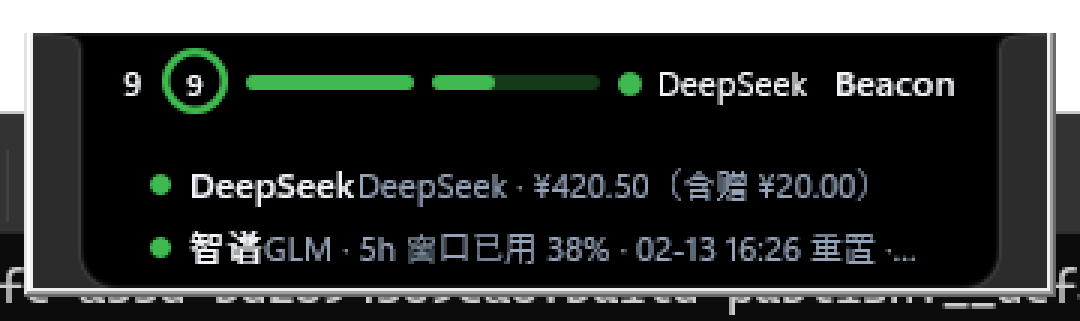
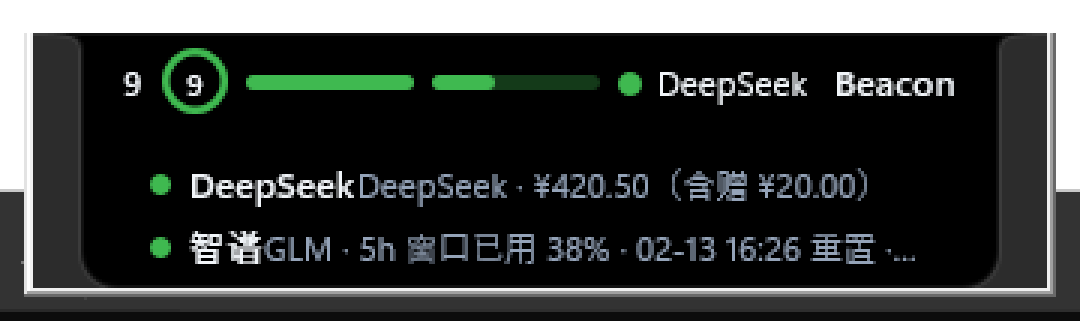
docs: recapture island evidence after width hug change

Changed region(s): [[0.0, 0.7165, 1.0, 0.9969], [0.9778, 0.3427, 1.0, 0.6231], [0.0, 0.3427, 0.0306, 0.6231]]

diff --git a/docs/acceptance-evidence/island-di-parity.md b/docs/acceptance-evidence/island-di-parity.md
@@ -19,8 +19,9 @@
 - 真机（imac 200% DPI，2026-11-08 a413ec0，`docs/acceptance-evidence/island-head-closeout/`）：
   `01-island-collapsed.png` / `02-island-collapsed-10x.png`（收起）、`06-island-expanded.png`（悬停展开）、
   `08-island-critical.png`（critical 徽标）、`09-capsule-classic.png`（经典胶囊回归对照）。
-- nightly visual-evidence（本轮新增场景 AG/AH）：**run 43671206004 全绿**（main 202cc26），
-  七张截图已入 `docs/acceptance-evidence/island-data/`（场景↔文件映射见该目录 README）；
+- nightly visual-evidence（本轮新增场景 AG/AH）：**run 43671206004 全绿**（main 202cc26，场景首绿）→
+  **run 43679247117 全绿**（main d555834 = D-4 宽度改版后的重取证，八张截图已刷新入
+  `docs/acceptance-evidence/island-data/`，场景↔文件映射见该目录 README）；
   首轮 run 43662875796 的 AG 三态 + AH1 展开帧同型（其 AH1b 假红根因=探针首展不设 _hovered、
   移出不构成 PointerExited——已在 202cc26 修 AH1a 先真悬停进岛）。
 
@@ -28,7 +29,7 @@
 
 | 对比图 | 内容 | 量化读数 |
 |---|---|---|
-| `cmp-01-collapsed.png` | DI 紧凑（di-03 crop）vs beacon 收起（01 crop），高归一 120px | DI w/h=3.98 全圆角（r=h/2）；beacon w/h=7.44 顶角 0、底角 r=12/h=0.375 |
+| `cmp-01-collapsed.png` | DI 紧凑（di-03 crop）vs beacon 收起（**D-4 后 AG-island-single**，高归一 150px 重排 2026-11-15） | DI w/h=3.98 全圆角（r=h/2）；beacon 单面收起 **w/h≈4.7**（150 DIP/32，D-4 贴内容后；改版前 238 DIP 恒宽=7.44），顶角 0、底角 r=12 |
 | `cmp-02-expanded.png` | DI 展开（di-02 crop）vs beacon 展开（06 crop） | DI 展开仍全圆角；beacon 展开同刘海轮廓（顶角 0） |
 | `cmp-03-ref-minimal.png` | DI 最小态（di-04 autocontrast 增强） | AOD 下岛融入壁纸（亮度差 <4/255） |
 | `cmp-04-ref-multi.png` | DI 多活动（di-01 中机特写） | 双活动并列：左活动区+右实时图标区 |
@@ -60,18 +61,23 @@
   （AG-island-stack.png，run 43662875796 证据）。DI 紧凑态只承载 1-2 活动是 iOS 单活动横幅语义，
   beacon 收起行是监控摘要面（一屏看全），改 2 面会把 GLM/DeepSeek 挤进溢出池且连锁打红
   AG1/AH3 场景断言（AH3 下钻点击目标就是 chip 面）。随 D-4 的宽度收缩，面少时岛变窄，
-  长宽比向 DI 靠拢的效果由 D-4 承担。
+  长宽比向 DI 靠拢的效果由 D-4 承担——**已由 run 43679247117 复核证实**（single w/h 4.7）。
 
-### D-4 内容内边距：DI 左右≈0.5×h vs beacon 1.66×h 🔧 已修（2026-11-15，待重截图复核）
+### D-4 内容内边距：DI 左右≈0.5×h vs beacon 1.66×h 🔧 已修并复核（2026-11-15，run 43679247117）
 
-- 证据：beacon 01 实测 glyph 左 inset 636px = 1.66×surface-h；DI di-02 实测左 inset 3px（相机帧特写）
-  / di-03 胶囊左右留白≈胶囊半高。
+- 证据（修前）：beacon 01 实测 glyph 左 inset 636px = 1.66×surface-h；DI di-02 实测左 inset 3px
+  （相机帧特写）/ di-03 胶囊左右留白≈胶囊半高。
 - 根因：`MeasureSizePx` 岛分支宽恒 `max(DefaultWidthDips 238, rowDips)`——固定 238 下限在
   面少时两侧各留 ~90 DIP 对称空白，读作「字缩在中间」。
-- 修复（CapsuleWindow.Positioning.cs 岛分支）：收起态宽=收起行+2×Inset 30 贴内容（DI compact
-  语义，下限 MinWidthDips 72 不变）；展开态/离线横幅保 238 下限（预览行 MaxWidth=岛宽-60，
-  窄收起行会把预览裁到不可读——DI expanded 同样横向变宽）。`DefaultWidthDips` 注释同步更新
-  （Core.Tests 锁的是常量值 238/30/72/178，全不动）。
+- 修复（CapsuleWindow.Positioning.cs 岛分支，d555834）：收起态宽=收起行+2×Inset 30 贴内容
+  （DI compact 语义，下限 MinWidthDips 72 不变）；展开态/离线横幅保 238 下限（预览行
+  MaxWidth=岛宽-60，窄收起行会把预览裁到不可读——DI expanded 同样横向变宽）。
+  `DefaultWidthDips` 注释同步更新（Core.Tests 锁的是常量值 238/30/72/178，全不动）。
+- 复核（run 43679247117 全绿，CI Windows 编译门过；同场景同 zoom 同脚本 crop 宽对比）：
+  single 面 1024→**648**（×0.63，w/h 7.44→**≈4.7**，向 DI 3.98 靠拢）、carousel 1024→**784**
+  （×0.77，宽随轮转面内容浮动）、stack 1424→1424 与 expanded 1080→1080 持平（4 面内容
+  ≈238 触旧下限、展开态保 238 下限——与设计一致，不受 D-4 影响）。cmp-01 已按新截图重排。
+  用户可感知面（面少时岛变窄、内容不再「缩中间」）**待用户装机亲验**。
 
 ### D-5 字体层级：DI 图标≈文字同高、无多级字号 vs beacon 11px 单级 ✅ 已对齐（复核通过）
 
@@ -106,7 +112,8 @@
 
 ## 验收口径
 
-- 修 D-3/D-4/D-6 后重跑 nightly visual-evidence（AG/AH 场景）重出对比图，差异清单逐项更新读数；
+- D-4 已修并随 run 43679247117 重取证（AG/AH 全绿，cmp-01 按新截图重排，读数已更新）；
+  D-3/D-6 维持设计取舍不改；
 - 视觉类条目一律「待用户装机亲验」：装机确认①收起面宽随面数收缩、②内容不再「缩中间」、
   ③主/次面分区可辨，D-3/D-4/D-6 才由用户闭项；
 - 本轮 agent 不勾任何岛类 todo 条目。

diff --git a/docs/acceptance-evidence/island-data/README.md b/docs/acceptance-evidence/island-data/README.md
@@ -1,20 +1,21 @@
 # island-data · 岛视觉证据（nightly visual-evidence AG/AH 场景）
 
-来源：nightly run 43671206004（2026-11-15，main 202cc26，全绿）。
+来源：nightly run 43679247117（2026-11-15，main d555834 = D-4 收起宽贴内容，全绿）。
+首轮 run 43662875796 建 AG/AH 场景（AH1b 假红）→ run 43671206004 修后首绿（main 202cc26）→
+本 run 为 D-4 宽度改版后的重取证（收起岛宽=收起行+2×Inset 30：single 1024→648 crop、
+carousel 1024→784，stack/expanded 持平——4 面内容与展开下限 238 不受 D-4 影响）。
 场景代码：`.github/workflows/scripts/visual-evidence.ps1` AG/AH 段。
 
 | 文件 | 场景 | 断言锚 | 内容 |
 |---|---|---|---|
-| `AG-island-stack.png` | AG1 stack 档 | UIA `island-face-{island.progressring,island.progressbar,bigmodel.usage:GLM,deepseek.balance:ds}` 全在场 | 收起行 4 面（环 9/条/条/chip DeepSeek + 品牌标） |
-| `AG-island-single.png` | AG2 single 档 | 环在场、条/GLM/DS face 不在场 | 序首环面常驻 |
-| `AG-island-carousel.png` | AG3 carousel 档 | 12 轮采样 ≥2 个不同 face id | 单面轮转在走 |
-| `AH-island-expanded.png` | AH1 展开态 | 窗高 ≥1.6×收起基线 + 预览行含 GLM 文本 | 探针首展（BEACON_DEBUG_ISLAND_PREVIEW=1） |
+| `AG-island-stack.png` | AG1 stack 档 | UIA `island-face-{island.progressring,island.progressbar,bigmodel.usage:GLM,deepseek.balance:ds}` 全在场 | 收起行 4 面（环 9/条/条/chip DeepSeek + 品牌标），宽 238 不变 |
+| `AG-island-single.png` | AG2 single 档 | 环在场、条/GLM/DS face 不在场 | 序首环面常驻，宽贴内容（环+品牌标） |
+| `AG-island-carousel.png` | AG3 carousel 档 | 12 轮采样 ≥2 个不同 face id | 单面轮转在走，宽随轮转面内容浮动 |
+| `AH-island-expanded.png` | AH1 展开态 | 窗高 ≥1.6×收起基线 + 预览行含 GLM 文本 | 探针首展（BEACON_DEBUG_ISLAND_PREVIEW=1），宽保 238 下限 |
 | `AH-island-collapsed-after-hover.png` | AH1a→AH1b | 指针真进（PointerEntered）→移出→窗高回基线 | 悬停往返的收起帧 |
 | `AH-island-reexpanded.png` | AH1c | 指针移回→窗高再长出 | 悬停往返的再展帧 |
 | `AH-island-placeholder.png` | AH2 占位面 | `island-face-bigmodel.usage:ghost` 在场（enabled:false 无状态） | 空心灯点+淡字占位（不造数据） |
-
-AH3（下钻链）无独立截图落此目录——断言面在快速面板（`chip-智谱` 定位 + `AH3-drilldown-panel.png` 在
-run artifact 里），岛侧证据由 AH3 的 face 点击前置覆盖。
+| `AH3-drilldown-panel.png` | AH3 下钻链 | 岛 face 点击 → 看板定位 `chip-智谱` | 组件级下钻的快速面板落点 |
 
 以后岛类 todo 条目验收=本目录场景证据（巡检单 beacon-island-parity Block B ③），
 不再出现「只有单测绿」的岛勾项。
